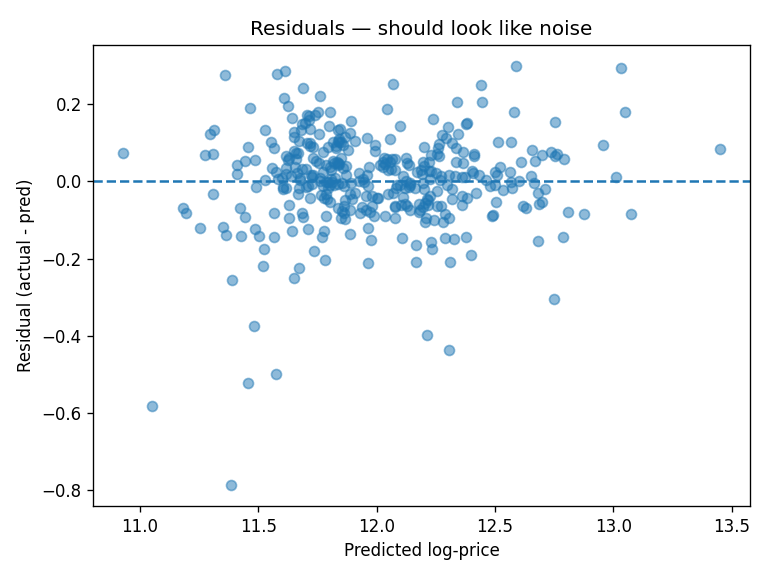
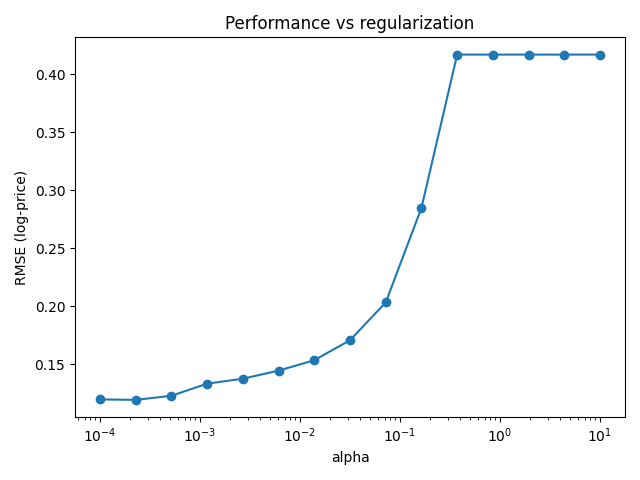
Use OO Matplotlib; regenerate distinct result images

diff --git a/lasso_house_prices.py b/lasso_house_prices.py
@@ -31,6 +31,7 @@ RESULTS_DIR.mkdir(parents=True, exist_ok=True)
 print("RUNNING SCRIPT:", os.path.abspath(__file__))
 print("Saving plots to:", RESULTS_DIR)
 
+
 def rmse(y_true, y_pred):
     """Version-proof RMSE"""
     return float(np.sqrt(mean_squared_error(y_true, y_pred)))
@@ -206,6 +207,34 @@ def main():
     })
     print("\nRMSE by price bucket (log-scale):")
     print(rmse_by_bucket.to_string(index=False))
+    
+def savefig(fig, name):
+    fig.tight_layout()
+    fig.savefig(RESULTS_DIR / name, dpi=120)
+    plt.close(fig)
+
+    # Sparsity
+    fig1, ax1 = plt.subplots()
+    ax1.plot(alphas_for_path, nonzeros, marker="o")
+    ax1.set_xscale("log"); ax1.set_xlabel("alpha"); ax1.set_ylabel("# non-zero")
+    ax1.set_title("LASSO sparsity path")
+    savefig(fig1, "sparsity_path.png")
+
+    # Performance
+    fig2, ax2 = plt.subplots()
+    ax2.plot(alphas_for_path, rmses, marker="o")
+    ax2.set_xscale("log"); ax2.set_xlabel("alpha"); ax2.set_ylabel("RMSE (log-price)")
+    ax2.set_title("Performance vs regularization")
+    savefig(fig2, "performance_path.png")
+
+    # Residuals
+    fig3, ax3 = plt.subplots()
+    ax3.scatter(lasso_preds, resid, alpha=0.5)
+    ax3.axhline(0, linestyle="--")
+    ax3.set_xlabel("Predicted log-price"); ax3.set_ylabel("Residual")
+    ax3.set_title("Residuals — should look like noise")
+    savefig(fig3, "residuals.png")
+
 
 if __name__ == "__main__":
     main()
